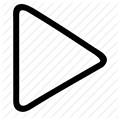
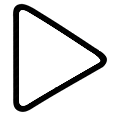
Set button background to transparent

diff --git a/Assets/ButtonStyle.css b/Assets/ButtonStyle.css
@@ -1,0 +1,213 @@
+@main-font {
+    -fx-font-family: "Nuku Nuku";
+     src: url('/fonts/nuku.ttf');
+}
+
+.button {
+     -fx-background-color: 
+     	#090a0c,
+     linear-gradient(#38424b 0%, #1f2429 20%, #191d22 100%),
+     linear-gradient(#20262b, #191d22),
+     radial-gradient(center 50% 0%, radius 100%, rgba(114,131,148,0.9), rgba(255,255,255,0));
+    -fx-background-radius: 5,4,3,5;
+    -fx-background-insets: 0,1,2,0;
+    -fx-text-fill: white;
+    -fx-font-family: "Nuku Nuku";
+    -fx-text-fill: linear-gradient(white, #d0d0d0);
+    -fx-font-size: 22px;
+    -fx-padding: 5 10 5 10;
+}
+
+.buttonRed {
+     -fx-background-color:
+         #1b263b,
+     linear-gradient(#26313b, #263446);
+    -fx-background-radius: 5,4,3,5;
+    -fx-background-insets: 0,1,2,0;
+    -fx-text-fill: white;
+    -fx-font-family: "Nuku Nuku";
+    -fx-text-fill: linear-gradient(red, #d0d0d0);
+    -fx-font-size: 22px;
+    -fx-padding: 1 4 1 4;
+}
+
+.buttonSelected {
+     -fx-background-color:
+         #1b263b,
+     linear-gradient(#26313b, #263446);
+    -fx-background-radius: 5,4,3,5;
+    -fx-background-insets: 0,1,2,0;
+    -fx-text-fill: white;
+    -fx-font-family: "Nuku Nuku";
+    -fx-text-fill: linear-gradient(white, #d0d0d0);
+    -fx-font-size: 22px;
+    -fx-padding: 5 10 5 10;
+}
+
+.combo-box {
+     -fx-font-family: "Nuku Nuku";
+     -fx-font-size: 15px;
+     -fx-background-color: 
+     	#090a0c,
+     	linear-gradient(#38424b 0%, #1f2429 20%, #191d22 100%),
+     	linear-gradient(#20262b, #191d22),
+     	radial-gradient(center 50% 0%, radius 100%, rgba(114,131,148,0.9), rgba(255,255,255,0));
+    -fx-background-radius: 5,4,3,5;
+    -fx-background-insets: 0,1,2,0;
+}
+
+#button {
+   .button;
+}
+
+#button:hover {
+	 -fx-background-color: 
+	 	#010712,
+     	linear-gradient(#38424b 0%, #2d3d4e 20%, #28313d 100%),
+     	linear-gradient(#2b3d4d, #212a35),
+     	radial-gradient(center 50% 0%, radius 100%, rgba(114,131,148,0.9), rgba(255,255,255,0));
+}
+
+#button:pressed {
+	-fx-background-color: 
+     	#1b263b,
+     	linear-gradient(#26313b, #263446);
+    -fx-font-size: 21px;
+    -fx-padding: 6 12 6 12;
+}
+
+.scroll {
+     -fx-background-color: 
+     	#090a0c,
+     linear-gradient(#38424b 0%, #1f2429 20%, #191d22 100%),
+     linear-gradient(#20262b, #191d22),
+     radial-gradient(center 50% 0%, radius 100%, rgba(114,131,148,0.9), rgba(255,255,255,0));
+    -fx-background-radius: 5,4,3,5;
+    -fx-background-insets: 0,1,2,0;
+    -fx-text-fill: white;
+    -fx-font-family: "Nuku Nuku";
+    -fx-text-fill: linear-gradient(white, #d0d0d0);
+    -fx-font-size: 22px;
+    -fx-padding: 5 10 5 10;
+}
+
+.scroll-bar:horizontal, .scroll-bar:vertical{
+     -fx-background-color: 
+     	#090a0c,
+     linear-gradient(#38424b 0%, #1f2429 20%, #191d22 100%),
+     linear-gradient(#20262b, #191d22),
+     radial-gradient(center 50% 0%, radius 100%, rgba(114,131,148,0.9), rgba(255,255,255,0));
+    -fx-background-radius: 5,4,3,5;
+    -fx-background-insets: 0,1,2,0;
+    -fx-text-fill: white;
+    -fx-font-family: "Nuku Nuku";
+    -fx-text-fill: linear-gradient(white, #d0d0d0);
+    -fx-font-size: 22px;
+    -fx-padding: 5 10 5 10;
+}
+
+.scroll-bar:horizontal .thumb,
+.scroll-bar:vertical .thumb {
+     -fx-background-color: 
+     	#1b263b,
+     	linear-gradient(#645538, #927c53);
+    -fx-font-size: 21px;
+    -fx-padding: 1 4 1 4;
+}
+
+#controlButton {
+   .button;
+   -fx-padding: 1 4 1 4;
+}
+
+
+#controlButton:pressed {
+	-fx-background-color: 
+     	#1b263b,
+     	linear-gradient(#26313b, #263446);
+    -fx-font-size: 21px;
+    -fx-padding: 1 4 1 4;
+}
+
+.commandButton {
+     -fx-background-color: 
+     	#090a0c,
+     linear-gradient(#38424b 0%, #1f2429 20%, #191d22 100%),
+     linear-gradient(#20262b, #191d22),
+     radial-gradient(center 50% 0%, radius 100%, rgba(114,131,148,0.9), rgba(255,255,255,0));
+    -fx-background-radius: 5,4,3,5;
+    -fx-background-insets: 0,1,2,0;
+    -fx-padding: 2 2 2 2;
+}
+
+.tableViewStyle {
+     -fx-background-color: 
+     	#342f55,
+     	linear-gradient(#586370, #4b535c);
+}
+
+.sideBarButton {
+     -fx-background-color: 
+     	#090a0c,
+     linear-gradient(#38424b 0%, #1f2429 20%, #191d22 100%),
+     linear-gradient(#20262b, #191d22),
+     radial-gradient(center 50% 0%, radius 100%, rgba(114,131,148,0.9), rgba(255,255,255,0));
+    -fx-background-radius: 5,4,3,5;
+    -fx-background-insets: 0,1,2,0;
+    -fx-padding: 2 2 2 2;
+}
+
+.sideBarButton:hover {
+	-fx-background-color:
+     	#010712,
+     	linear-gradient(#38424b 0%, #2d3d4e 20%, #28313d 100%),
+     	linear-gradient(#2b3d4d, #212a35),
+     	radial-gradient(center 50% 0%, radius 100%, rgba(114,131,148,0.9), rgba(255,255,255,0));
+}
+
+.sideBarButton:pressed {
+     -fx-background-color:
+     	#1b263b,
+     	linear-gradient(#26313b, #263446);
+	-fx-background-radius: 5,4,3,5;
+    -fx-background-insets: 0,1,2,0;
+    -fx-padding: 2 2 2 2;
+}
+
+.commandButtonSelected {
+     -fx-background-color:
+     	#1b263b,
+     	linear-gradient(#26313b, #263446);
+	-fx-background-radius: 5,4,3,5;
+    -fx-background-insets: 0,1,2,0;
+    -fx-padding: 2 2 2 2;
+}
+
+.commandButton:hover {
+	-fx-background-color:
+     	#010712,
+     	linear-gradient(#38424b 0%, #2d3d4e 20%, #28313d 100%),
+     	linear-gradient(#2b3d4d, #212a35),
+     	radial-gradient(center 50% 0%, radius 100%, rgba(114,131,148,0.9), rgba(255,255,255,0));
+}
+
+#mainMenuButton {
+    .button;
+    -fx-font-size: 60px;
+}
+
+#mainMenuButton:hover {
+	-fx-background-color:
+	 	#010712,
+     	linear-gradient(#38424b 0%, #2d3d4e 20%, #28313d 100%),
+     	linear-gradient(#2b3d4d, #212a35),
+     	radial-gradient(center 50% 0%, radius 100%, rgba(114,131,148,0.9), rgba(255,255,255,0));
+}
+
+#mainMenuButton:pressed {
+	-fx-background-color: 
+     	#1b263b,
+     linear-gradient(#26313b, #263446);
+    -fx-font-size: 59px;
+    -fx-padding: 6 12 6 12;
+}

diff --git a/src/main/view/Scene/gamePanel/GameFilePanel.java b/src/main/view/Scene/gamePanel/GameFilePanel.java
@@ -24,7 +24,7 @@ import javafx.scene.control.Button;
  */
 public class GameFilePanel extends Panel {
     private double buttonScale = 1;
-    private double IMAGE_SPACE = getAssets().getImage("NEW_MAP_BUTTON").getWidth()*buttonScale+10;
+    private double IMAGE_SPACE = (getAssets().getImage("NEW_MAP_BUTTON").getWidth()-20)*buttonScale;
     private AnchorPane gameFilePanelLayout = new AnchorPane();
     private Button newGameButton = new Button();
     private Button fileSaveButton = new Button();
@@ -60,6 +60,7 @@ public class GameFilePanel extends Panel {
     private void setUpButton(Button button, Image image){
         button.setGraphic(new ImageView(image));
         gameFilePanelLayout.getChildren().add(button);
+        button.getStyleClass().setAll("");
     }
 
     private void saveGame(){
@@ -102,9 +103,10 @@ public class GameFilePanel extends Panel {
         fileSaveButton.setTranslateY(y);
         fileLoadButton.setTranslateX(x+2*IMAGE_SPACE);
         fileLoadButton.setTranslateY(y);
-        mainMenuButton.setTranslateX(screenDimension.x - 70*camera.getBackgroundScaleX());
-        mainMenuButton.setTranslateY(y);
+        mainMenuButton.setTranslateX(screenDimension.x-115*camera.getBackgroundScaleX());
+        mainMenuButton.setTranslateY(10*camera.getBackgroundScaleY());
 
+       IMAGE_SPACE = (getAssets().getImage("NEW_MAP_BUTTON").getWidth()-20)*camera.getBackgroundScaleX();
     }
 
     private void saveFile(File saveMap){

diff --git a/src/main/view/View.java b/src/main/view/View.java
@@ -10,6 +10,7 @@ import utilities.TileEditor;
 import view.assets.AssetManager;
 
 import java.awt.*;
+import java.io.File;
 
 /**
  * Created by cduica on 3/22/17.
@@ -45,6 +46,10 @@ public class View{
     private void initializeView(){
         root.getChildren().add(canvas);
         mapMakerPreview = new MapMakerPreview(panelManager);
+//
+//        File buttonStyle = new File("Assets/ButtonStyle.css");
+//        scene.getStylesheets().clear();
+//        scene.getStylesheets().add("file:///"+buttonStyle.getAbsolutePath().replace("\\","/"));
     }
 
     public void renderGame(){

diff --git a/src/main/view/Scene/mapMakerPanel/FilePanel.java b/src/main/view/Scene/mapMakerPanel/FilePanel.java
@@ -80,6 +80,7 @@ public class FilePanel extends view.Panel {
     private void setUpButton(Button button, Image image){
         button.setGraphic(new ImageView(image));
         filePanelLayout.getChildren().add(button);
+        button.getStyleClass().setAll("");
     }
 
     private void setPositions(Point screenDimension){

diff --git a/src/main/view/Scene/IntroPanel.java b/src/main/view/Scene/IntroPanel.java
@@ -55,6 +55,7 @@ public class IntroPanel extends Panel {
     private void setUpButton(Button button, Image image){
         button.setGraphic(new ImageView(image));
         introPanelLayout.getChildren().add(button);
+
     }
 
     public void draw(GraphicsContext gc, Point screenDimension){
